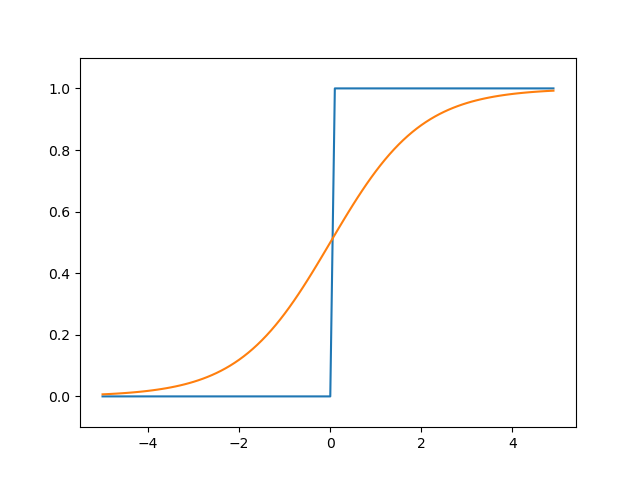
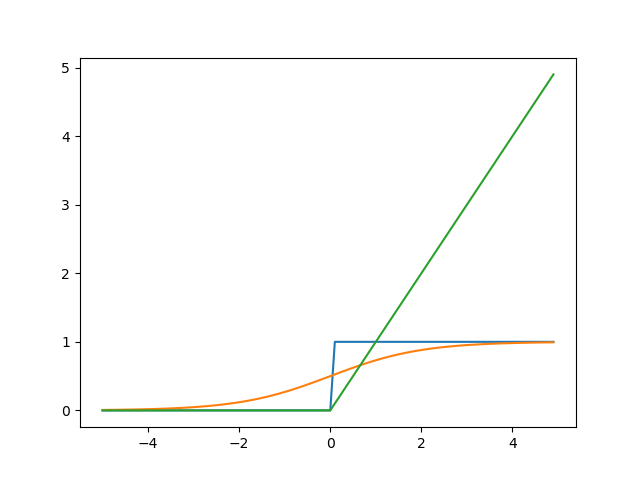
:shirt:

diff --git a/ch3/acti-func.py b/ch3/acti-func.py
@@ -8,13 +8,17 @@ def step_funciton(x): # xはnumpy.array
 def sigmoid(x):
   return 1 / (1 + np.exp(-x)) # numpyのbroadcastによって、np.arrayに対応できている
 
+def relu(x):
+  return np.maximum(0, x)
+
 x = np.arange(-5.0, 5.0, 0.1)
 y = step_funciton(x)
 plt.plot(x, y)
 
-x = np.arange(-5.0, 5.0, 0.1)
 y = sigmoid(x)
 plt.plot(x, y)
 
-plt.ylim(-0.1, 1.1) # y座標の範囲を指定
+y = relu(x)
+plt.plot(x, y)
+
 plt.savefig('acti.png')
